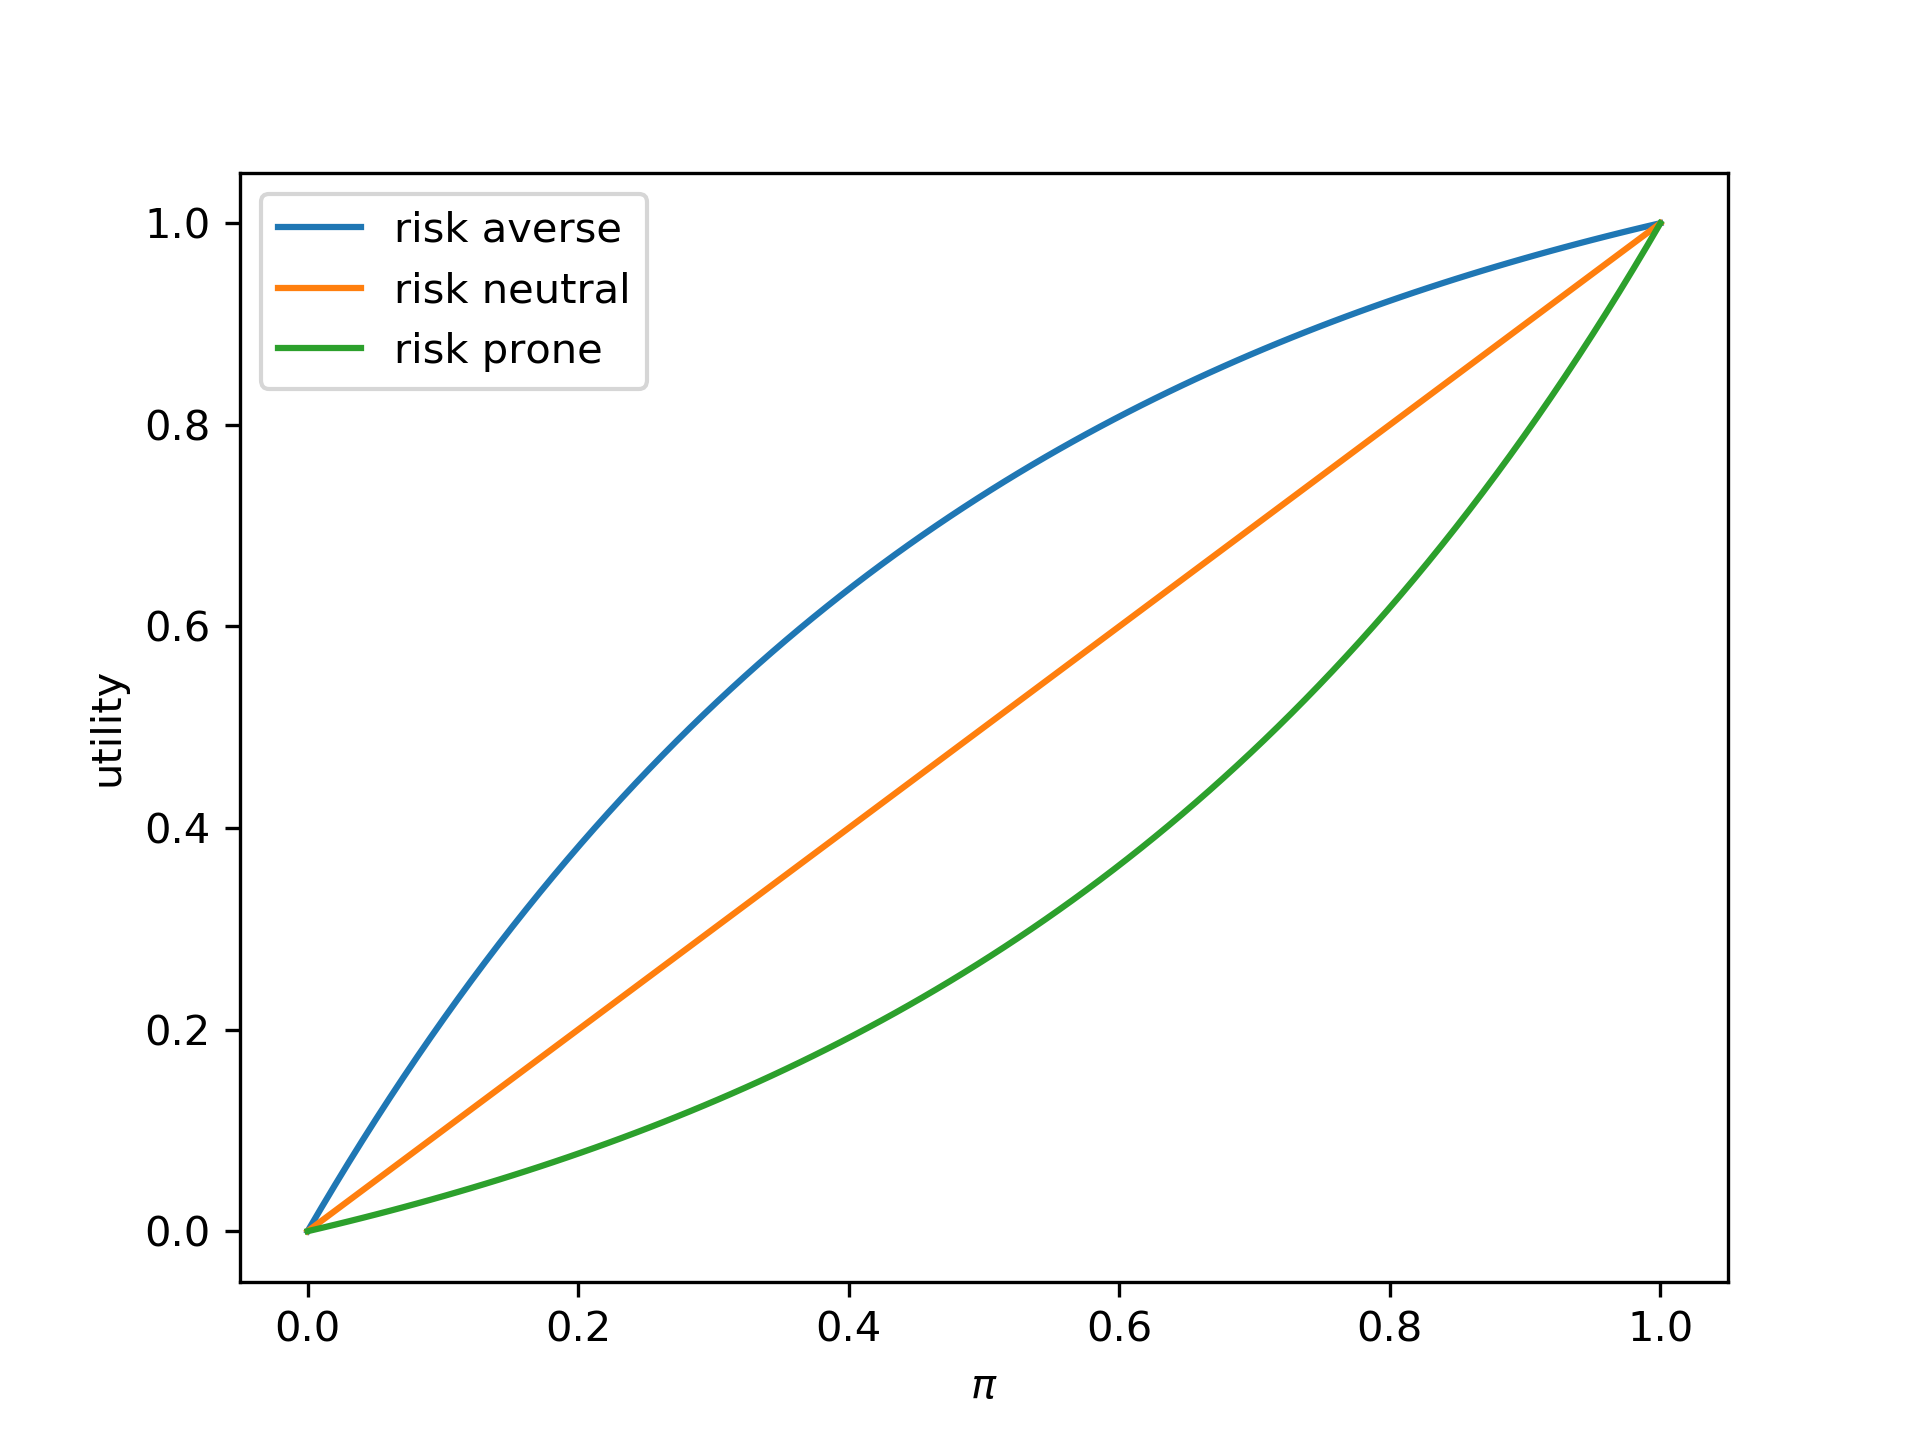
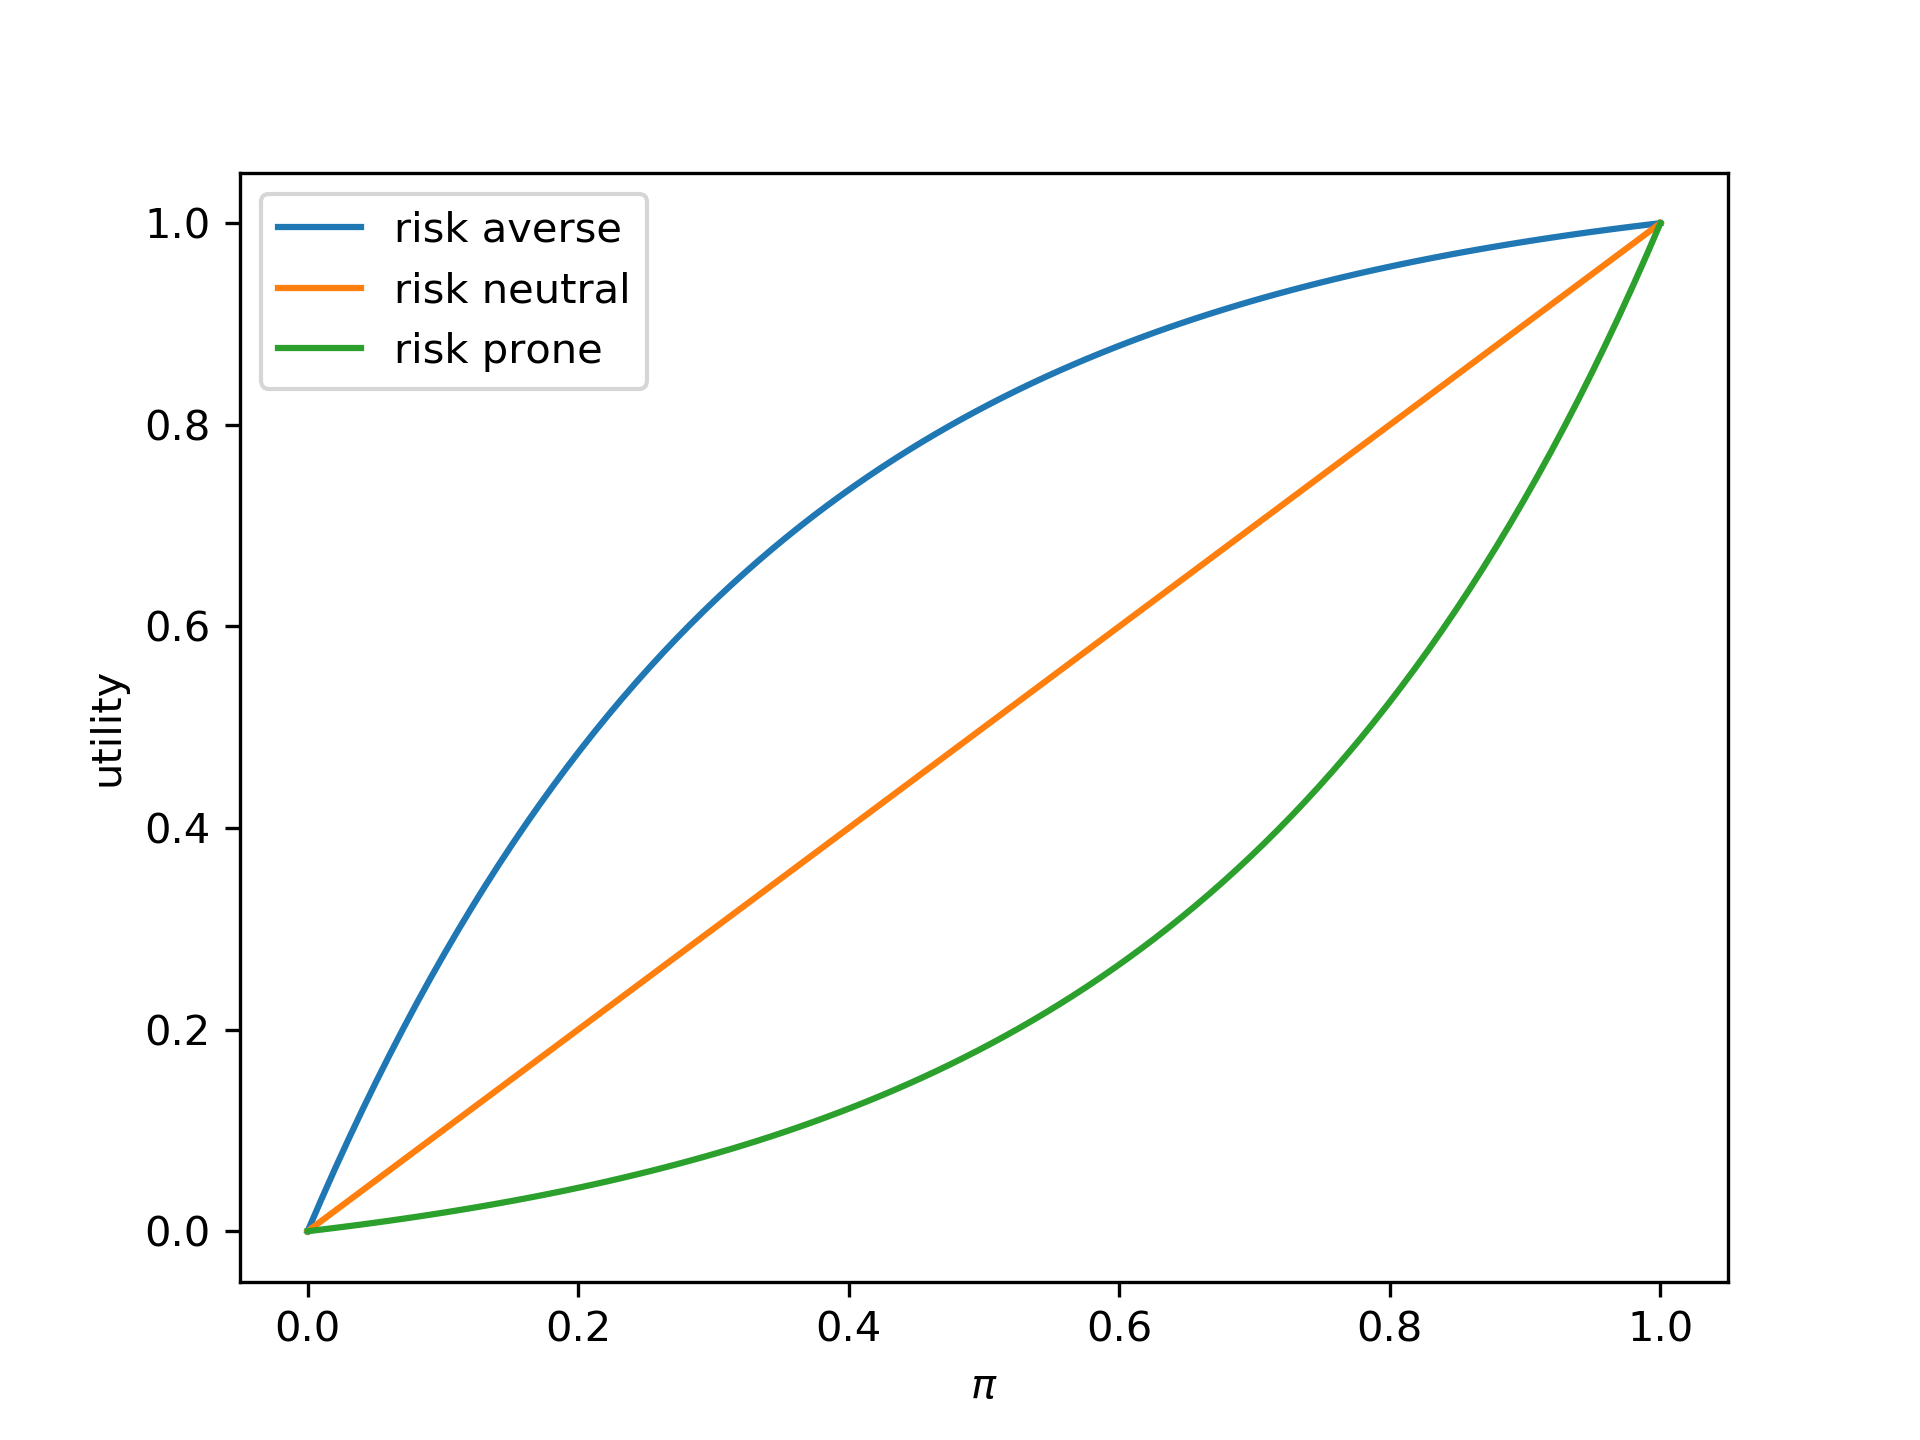
utility function scalar pi

diff --git a/sepdesign/_utility_functions.py b/sepdesign/_utility_functions.py
@@ -31,13 +31,12 @@ class RiskAverseUtilityFunction(UtilityFunction):
     The utiltiy function for risk averse behavior
     """
 
-    def __init__(self, t_pi=None):
+    def __init__(self, t_pi=None, risk_intensity = -2):
         if t_pi == None:
-            t_pi = T.dvector('pi')
-        t_util = T.flatten(t_pi)
-        self.a = 1.0 / (1.0 - T.exp(-2))
+            t_pi = T.dscalar('pi')
+        self.a = 1.0 / (1.0 - T.exp(risk_intensity))
         self.b = self.a
-        t_util = T.flatten(self.a - self.b * T.exp(-2 * t_pi))
+        t_util = self.a - self.b * T.exp(risk_intensity * t_pi)
         super(RiskAverseUtilityFunction, self).__init__(t_pi, t_util)
 
 
@@ -46,11 +45,11 @@ class RiskNeutralUtilityFunction(UtilityFunction):
     The utiltiy function for risk neutral behavior
     """
 
-    def __init__(self, t_pi=None):
+    def __init__(self, t_pi=None, risk_intensity = None):
 
         if t_pi == None:
-            t_pi = T.dvector('pi')
-        t_util = T.flatten(t_pi)
+            t_pi = T.dscalar('pi')
+        t_util = t_pi
         super(RiskNeutralUtilityFunction, self).__init__(t_pi, t_util)
 
 
@@ -59,14 +58,14 @@ class RiskProneUtilityFunction(UtilityFunction):
     The utiltiy function for risk prone behavior
     """
 
-    def __init__(self, t_pi=None):
+    def __init__(self, t_pi=None, risk_intensity = 2):
 
         if t_pi == None:
-            t_pi = T.dvector('pi')
+            t_pi = T.dscalar('pi')
 
-        self.a = 1.0 / (1.0 - T.exp(2))
+        self.a = 1.0 / (1.0 - T.exp(risk_intensity))
         self.b = self.a
-        t_util = T.flatten(self.a - self.b * T.exp(2 * t_pi))
+        t_util = self.a - self.b * T.exp(risk_intensity * t_pi)
         super(RiskProneUtilityFunction, self).__init__(t_pi, t_util)
 
 
@@ -74,17 +73,26 @@ if __name__ == '__main__':
     import numpy as np
     import matplotlib.pyplot as plt
     pi = np.linspace(0,1, 100)
-    u_averse  = RiskAverseUtilityFunction()
+    u_averse  = RiskAverseUtilityFunction(risk_intensity=-3)
     u_neutral = RiskNeutralUtilityFunction()
-    u_prone   = RiskProneUtilityFunction()
+    u_prone   = RiskProneUtilityFunction(risk_intensity=3)
 
     u_averse.compile()
     u_neutral.compile()
     u_prone.compile()
 
-    plt.plot(pi, u_averse(pi), label='risk averse')
-    plt.plot(pi, u_neutral(pi), label='risk neutral')
-    plt.plot(pi, u_prone(pi), label='risk prone')
+    ua = []
+    un = []
+    up = []
+    for i in pi:
+        ua += [u_averse(i)]
+        un += [u_neutral(i)]
+        up += [u_prone(i)]
+
+    plt.plot(pi, ua, label='risk averse')
+    plt.plot(pi, un, label='risk neutral')
+    plt.plot(pi, up, label='risk prone')
+
     plt.xlabel(r'$\pi$')
     plt.ylabel(r'utility')
 
